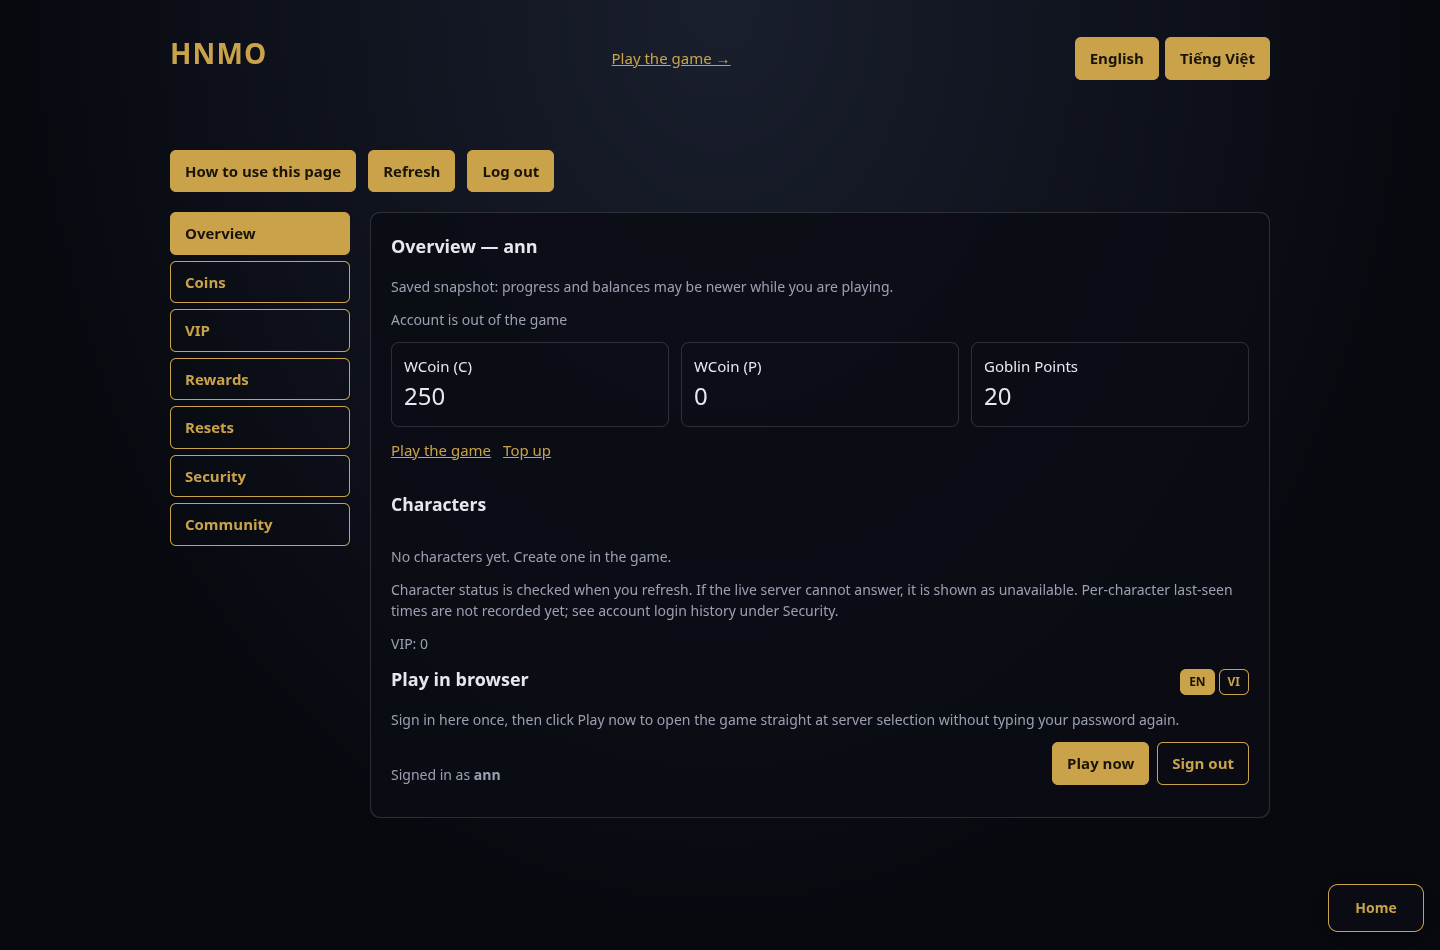
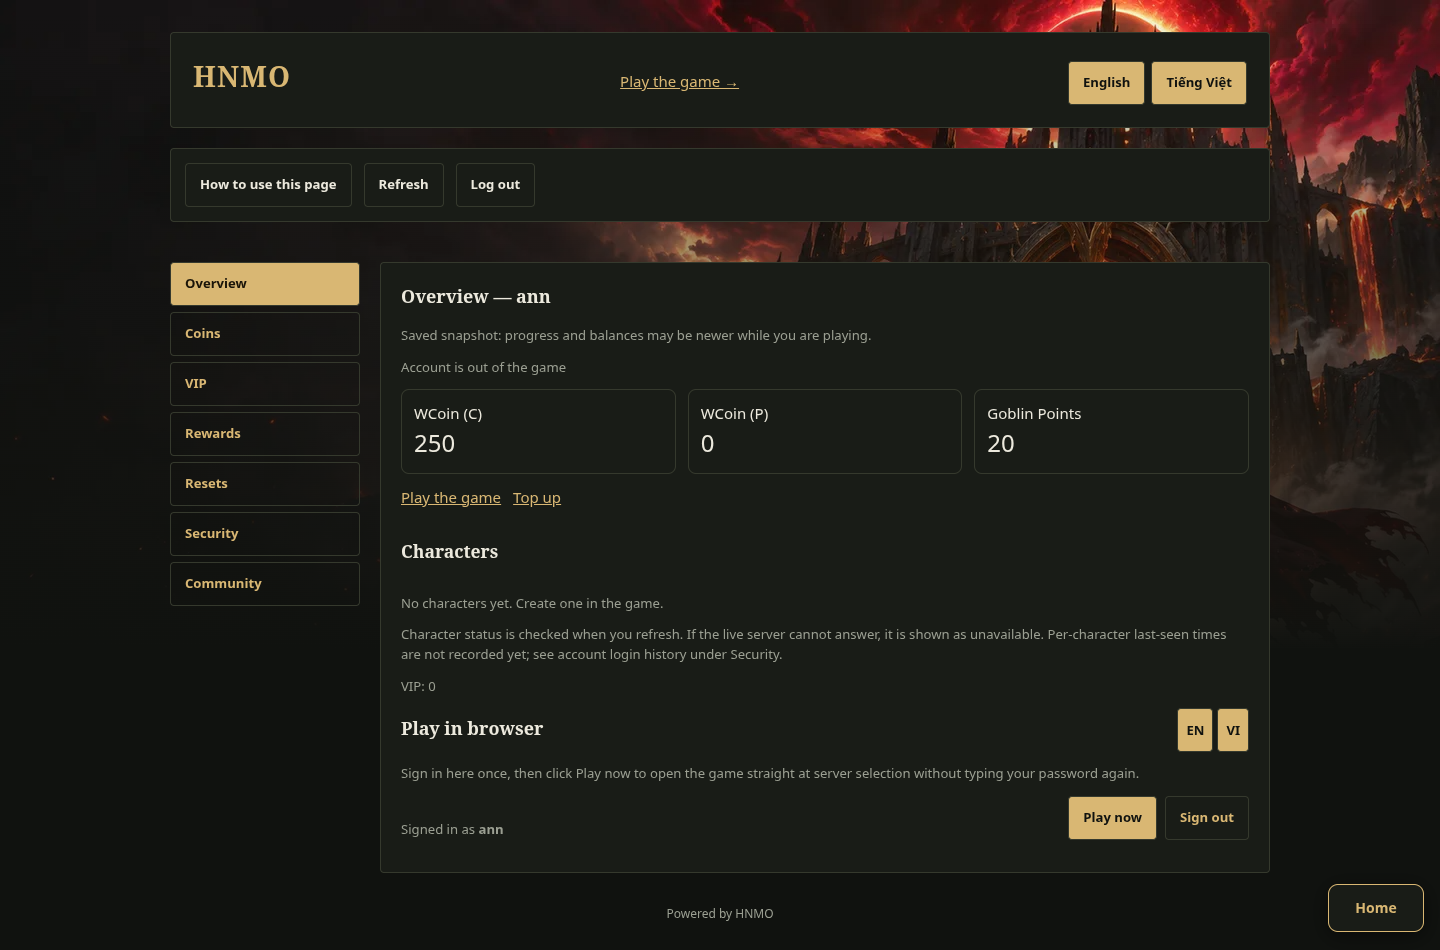
Record distinct layouts, account entry dependency and review screenshots

diff --git a/client/web/docs/GLOBAL-WEBSITE-THEMES.md b/client/web/docs/GLOBAL-WEBSITE-THEMES.md
@@ -79,3 +79,15 @@ Frontend build/typecheck pass; full unit34passed,1 existing optional Season9 dat
 Đã qua build/typecheck, toàn bộ1438 ca Web,34 ca unit (một ca gói dữ liệu tùy chọn bỏ qua theo điều kiện có sẵn),37 ca trình duyệt công khai/đường dẫn xem riêng và84 ca tài khoản cho cả sáu theme. Có ảnh/kiểm tra bảy trang trên điện thoại và desktop. Không tắt hoặc giảm kiểm thử, không thêm chờ cố định.
 
 Not checked: live host save against PostgreSQL, real SMTP, game login/gameplay or financial side effects, and the full solution-wide test matrix. Existing feature handlers are preserved; these browser cases use explicit fixtures. / Chưa kiểm tra cấu hình trên PostgreSQL thật, gửi mail thật, đăng nhập/chơi game hoặc giao dịch tiền thật và toàn bộ test của solution. Bản xem không có các dịch vụ đó.
+
+## Owner correction: different structures and one account entry
+
+22 November: five skins now move the original feature nodes into different structures, without cloning them or replacing their handlers: Ember has a left navigation rail and campaign sections; Azure places the hero beside a server/news board; Jade groups live content into three task columns; Violet has a right rail and event/news command deck; Parchment uses a cover/index beside independently scrolling pages. Classic remains the additional original direction. Mobile layouts keep the menu reachable and use uniform-sized action targets. Late async sections and their click handlers survive layout changes.
+
+Auth/navigation is inherited from draft318: Account opens the dedicated sign-in page; create-account/Google stay inside it; private rewards/mail/reset/security/VIP/history are gated; Enter game reuses a server-verified cookie through the existing ticket. The owner explicitly requested removal of the duplicate home registration section:28 home sections remain, with signup relocated, not removed. Every public page has a floating Home action. This dependency is a local branch merge only, not a remotely merged PR.
+
+Five-layout screenshots plus Classic at390/1440px are in screenshots/website-structures. The private Site preserves the original approved profile and all its sample tools, and uses a clearly fictional shared sample sign-in for account→game character selection. This sample flag never replaces the production HttpOnly implementation. Unsupported writes, real payments and live gameplay remain blocked.
+
+Năm bố cục khác nhau nhưng dùng nguyên các mục/nút/chức năng đang có. Đăng ký chuyển vào màn hình tài khoản theo yêu cầu, không còn form trùng trên trang chủ. Host vẫn chọn duy nhất một theme cho toàn website, không chọn riêng theo thế giới hay tài khoản. Dữ liệu và phiên đăng nhập trên Site là mẫu để xem; bản chạy thật dùng API/cookie bridge đã kiểm thử.
+
+An observed Violet mailbox-over-navigation overflow was fixed by removing the obsolete status grid area (the status now lives outside the dashboard) and sizing mailbox columns to their container. The regression checks actual panel/navigation boundaries and normal button clicks; it does not force clicks past overlays.

diff --git a/client/web/docs/WEBSITE-FEATURE-PLAN.md b/client/web/docs/WEBSITE-FEATURE-PLAN.md
@@ -10,7 +10,7 @@ Target every draft PR at the latest `claude/hnmo-main-handover-54co2m`. Never pu
 
 | PR slice | Scope / Phạm vi | Status / Trạng thái |
 |---|---|---|
-| 1 | One host theme, shared navigation/credit/language, Brand logo/colors; retain all current features. / Theme chung, điều hướng, credit, ngôn ngữ, logo/màu Brand; giữ tính năng hiện có. | Global skins and Brand foundation validated for draft review; new feature-route navigation remains with its pages. / Nền tảng theme/Brand đã kiểm thử để review; liên kết chức năng mới đi cùng trang tương ứng. |
+| 1 | One host theme, shared navigation/credit/language, Brand logo/colors; retain all current features. / Theme chung, điều hướng, credit, ngôn ngữ, logo/màu Brand; giữ tính năng hiện có. | Global skins/Brand foundation, five distinct structures and shared account-entry dependency validated; feature-route navigation remains with its pages. / Nền tảng theme/Brand đã kiểm thử để review; liên kết chức năng mới đi cùng trang tương ứng. |
 | 2 | Home cards from live configuration, enabled systems, VIP and catalog. / Thẻ trang chủ từ cấu hình thật, hệ thống bật, VIP và danh mục cửa hàng. | Audit and extend existing APIs; not yet complete. / Cần kiểm kê và bổ sung API hiện có. |
 | 3 | Missing activity events and bounded batching/retention/performance proof. / Sự kiện nhật ký còn thiếu, ghi theo lô, lưu giữ và kiểm thử hiệu năng. | Pending / Chưa làm |
 | 4 | Tracker API with host visibility/retention and player name hiding. Reuse ActivityLog and serials. / API truy vết, quyền công khai, thời hạn và ẩn tên; dùng lại nhật ký/mã vật phẩm. | Pending / Chưa làm |
